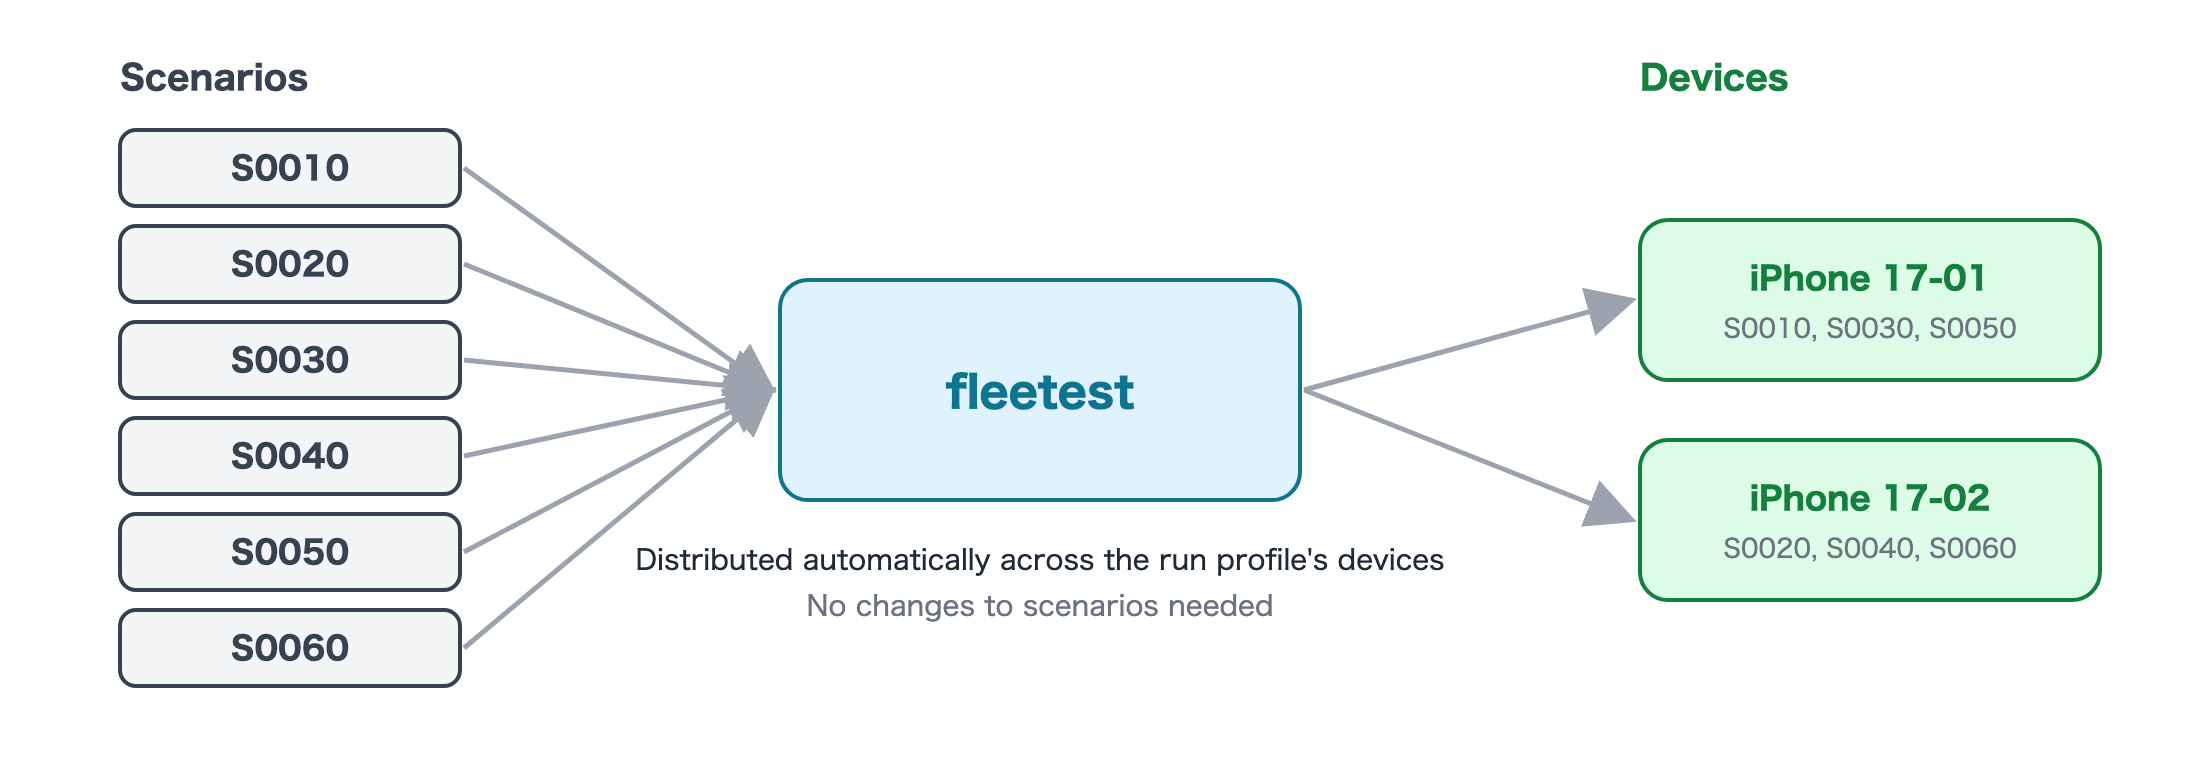
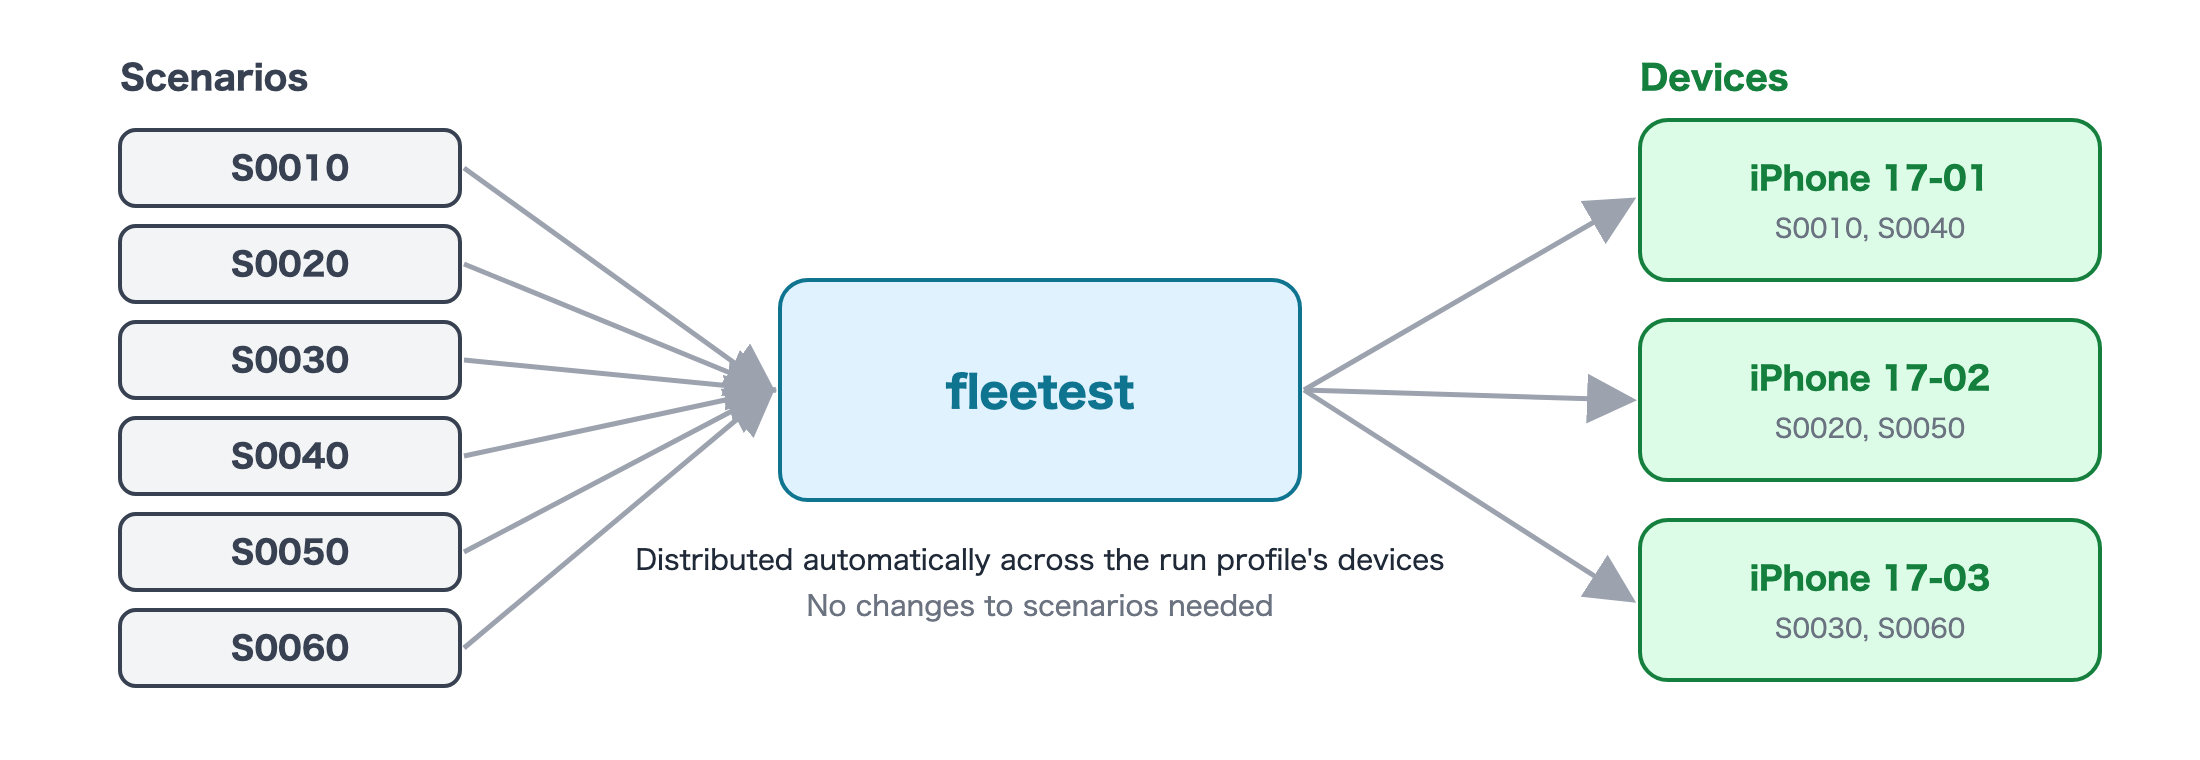
docs(user-docs): クイックスタートとチュートリアルを通しで実施して見つかった食い違いを直す
新しい作業フォルダで受け手と同じ経路を通し、各指示文を新しいセッションへ渡して確かめた。

- テストに名前とファイル名を付けて指示文で名指しする(商品詳細を開く.swift・カートに追加する.swift)。
  「基本ルートのテスト」が2本あると「既存のテストに足す」が別ファイルを作ったり既存に足したりで割れ、
  スモークの段で AI が「カートのテスト」の候補2本を聞き返して止まった。2本目は同じファイルに足すと明示し、
  スモークの期待は「2つのファイル・3本」と分けて書く
- チュートリアルの台数を3台に揃える(クイックスタートの2台 + デバイスを用意するの1台)。図も作り直す
- クイックスタート手順5の手動手順から project create を外す(手順4の prepare.sh が作成済みで exit 1 になる)
- 指示文に「fleetest のテストプロジェクト project1」を付け、手順7を会話に依存しない文にする
- ft_services / ft_start_run の許可を求められることを書く・doctor の指示文を枠に入れる
- 手動ビルドを generic/platform=iOS Simulator にし、JDK 25 以降が要ることを書く
- /health の応答を実物({"status":"ok","db":"up"})に合わせ、VSCode で見るの「次へ」をサンドボックスへつなぐ

直した指示文で「テストを作る → 失敗させる → スモーク」を2周通し、2周とも docs の期待どおりだった。

Changed region(s): [[0.5873, 0.3632, 0.9582, 0.9079], [0.7109, 0.1513, 0.9582, 0.4539], [0.68, 0.3329, 0.7109, 0.3632]]

diff --git a/docs/user-docs/images/tutorial/gen_diagrams.py b/docs/user-docs/images/tutorial/gen_diagrams.py
@@ -102,10 +102,10 @@ def parallel(t):
     b+=f'<text x="520" y="285" text-anchor="middle" font-size="14" fill="{C["ink"]}">{t["par_q"]}</text>'
     b+=f'<text x="520" y="308" text-anchor="middle" font-size="14" fill="{C["sub"]}">{t["par_note"]}</text>'
     for i in range(6): b+=arrow(232,84+i*48,386,195)
-    # チュートリアルの「デバイスを用意する」で ios-run を2台にする流れに合わせる
-    devs=[("iPhone 17-01",["S0010","S0030","S0050"]),("iPhone 17-02",["S0020","S0040","S0060"])]
+    # クイックスタートの2台 +「デバイスを用意する」の1台 = ios-run の3台に合わせる
+    devs=[("iPhone 17-01",["S0010","S0040"]),("iPhone 17-02",["S0020","S0050"]),("iPhone 17-03",["S0030","S0060"])]
     for i,(d,ss) in enumerate(devs):
-        y=110+i*110
+        y=60+i*100
         b+=box(820,y,230,80,C["devBg"],C["dev"],d,", ".join(ss),ts=16)
         b+=arrow(652,195,816,y+40)
     return svg(W,H,b)

diff --git a/docs/user-docs/quick-start.md b/docs/user-docs/quick-start.md
@@ -46,7 +46,11 @@ following ../foundation-tester/.claude/skills/fleetest-setup/SKILL.md.
 
    <img src="images/quick_start/en/device_monitor.png" width="640" alt="The device monitor just opened">
 
-7. Ask your AI assistant to "run `../foundation-tester/.build/debug/fleetest doctor` and report the result", and confirm that no errors are reported
+7. Give your AI assistant this instruction and confirm that no errors are reported
+
+```text
+Run ../foundation-tester/.build/debug/fleetest doctor and report the result.
+```
 
 ## 4. Preparing the sample app
 
@@ -83,26 +87,26 @@ Create the app profile and the run profile.
 For iOS:
 
 ```text
-Build the sut-ec-mobile iOS app and create its profiles. The app's display name is "SUT Store". Use two devices.
+In the fleetest test project project1, build the sut-ec-mobile iOS app and create its profiles. The app's display name is "SUT Store". Use two devices.
 The build needs JDK 25; if it is missing, you can install JDK 25 with Homebrew. Don't modify any shell configuration files.
 ```
 
 For Android:
 
 ```text
-Build the sut-ec-mobile Android app and create its profiles. The app's display name is "SUT Store". Use two devices.
+In the fleetest test project project1, build the sut-ec-mobile Android app and create its profiles. The app's display name is "SUT Store". Use two devices.
 The build needs JDK 25; if it is missing, you can install JDK 25 with Homebrew. Don't modify any shell configuration files.
 ```
 
 <details>
 <summary><b>If you do it manually (click to show details)</b></summary>
 
-Build the app in the sut-ec-mobile folder:
+Build the app in the sut-ec-mobile folder. The build needs JDK 25 or later (if it is missing, `brew install openjdk@25`).
 
 ```bash
-# iOS Simulator (set the name in -destination to a Simulator you have)
+# iOS Simulator
 xcodebuild -project iosApp/iosApp.xcodeproj -scheme iosApp -configuration Debug \
-  -sdk iphonesimulator -destination 'platform=iOS Simulator,name=iPhone 17 Pro' \
+  -sdk iphonesimulator -destination 'generic/platform=iOS Simulator' \
   -derivedDataPath build/ios-sim CODE_SIGNING_ALLOWED=NO ARCHS=arm64 ONLY_ACTIVE_ARCH=YES build
 #   -> build/ios-sim/Build/Products/Debug-iphonesimulator/iosApp.app
 
@@ -111,12 +115,9 @@ xcodebuild -project iosApp/iosApp.xcodeproj -scheme iosApp -configuration Debug 
 #   -> androidApp/build/outputs/apk/debug/androidApp-debug.apk
 ```
 
-Go back to your work folder and run the following. The installation creates no test project, so create one first
-(when you ask the AI assistant, it is created automatically; the VSCode extension also creates it on startup after VSCode restarts).
+Go back to your work folder and run the following. The profiles are created in the test project project1 that step 4 created.
 
 ```bash
-../foundation-tester/.build/debug/fleetest project create project1
-
 # iOS
 ../foundation-tester/.build/debug/fleetest profile setup --platform ios --app-id com.sutec.mobile.ios --auto-device --count 2 --app-name "SUT Store" \
   --app-path ../sut-ec-mobile/build/ios-sim/Build/Products/Debug-iphonesimulator/iosApp.app
@@ -150,7 +151,9 @@ Let's create a happy-path test (the normal flow) up to opening a product.
 ### Prompt for the AI
 
 ```text
-In sut-ec-mobile (SUT Store), create one happy-path test (the normal flow) on iOS that opens a product from the home screen and shows its product details. Put the step that switches the app to English mode in setUpDevice. Stop once you've told me the file name of the new scenario.
+In the fleetest test project project1, create one "open-product-details test" for SUT Store on iOS. Name the file OpenProductDetails.swift.
+It checks the happy path (the normal flow) of opening a product from the home screen until its product details are shown. Put the step that switches the app to English mode in setUpDevice.
+Stop once you've told me the file name of the new scenario.
 ```
 
 `setUpDevice` is where you put the preparation that is done once per device before the tests (here, switching the language).
@@ -159,6 +162,7 @@ For Android, read "on iOS" as "on Android".
 The AI assistant launches the app on a device, reads the elements of the screens while
 operating them, and turns that flow into a scenario.
 Before it starts operating the app, the AI assistant starts the server declared in compose.yaml with `ft_services`.
+The AI assistant asks for permission to use `ft_services` at this point; allow it.
 
 <details>
 <summary><b>If you do it manually (click to show details)</b></summary>
@@ -180,10 +184,11 @@ On every run fleetest starts the server and stops it when the run ends. Services
 ### Prompt for the AI
 
 ```text
-Run the scenarios you created on iOS.
+Run the scenarios of the fleetest test project project1 on iOS (ios-run).
 ```
 
-For scenarios created on Android, ask "Run them on Android" instead.
+For scenarios created on Android, ask "on Android (android-run)" instead.
+When asked for permission to use `ft_start_run`, which starts the run, allow it as well.
 
 <img src="images/quick_start/en/run_in_progress.png" width="640" alt="The device monitor while the run is in progress">
 
@@ -216,7 +221,7 @@ Let's summarize the reports and analyze the errors.
 ### Prompt for the AI
 
 ```text
-Summarize the results of that run. If anything failed, use the report to find out why.
+Summarize the latest run of the fleetest test project project1. If anything failed, use the report to find out why.
 ```
 
 <details>

diff --git a/docs/user-docs/tutorial/investigating_failures.md b/docs/user-docs/tutorial/investigating_failures.md
@@ -7,18 +7,18 @@ What fleetest records is only the facts: at which stage, which operation, and ho
 
 ## 1. Make one fail on purpose
 
-To practice investigating, temporarily change an expected value in the cart test so that it fails.
+To practice investigating, temporarily change an expected value in the add-to-cart test so that it fails.
 
 ### Prompt for the AI
 
 ```text
-In the cart test of the fleetest test project project1, temporarily change just one expected value, the one that checks the product name in the cart, to a product name that does not exist.
+In the first test of the "add-to-cart test" (AddToCart.swift) of the fleetest test project project1, temporarily change just one expected value, the one that checks the product name in the cart, to a product name that does not exist.
 Then run it on iOS (ios-run) and report only pass or fail. Don't fix it.
 ```
 
 Expected result:
 
-- The cart test fails.
+- The first test of the add-to-cart test fails.
 - The other tests pass.
 
 ## 2. Have the results summarized
@@ -41,7 +41,7 @@ Summarize the latest run of the fleetest test project project1. If anything fail
 
 Expected result:
 
-- The cart test is listed.
+- The first test of the add-to-cart test is listed.
 - The step where you changed the expected value is listed.
 
 ## 3. Have the cause investigated (don't fix it)
@@ -69,7 +69,7 @@ Expected result:
 ### Prompt for the AI
 
 ```text
-In the cart test of the fleetest test project project1, restore the expected value to the original product name, and re-run only the scenarios that failed on iOS last time.
+In the "add-to-cart test" (AddToCart.swift) of the fleetest test project project1, restore the expected value to the original product name, and re-run only the scenarios that failed on iOS last time.
 ```
 
 <details>
@@ -86,7 +86,7 @@ Results are recorded per profile, so run it with the same profile as last time.
 
 Expected result:
 
-- Only the cart test that had failed runs, and it passes.
+- Only the one test that had failed runs, and it passes.
 
 More details:
 

diff --git a/docs/user-docs/tutorial/creating_tests_ja.md b/docs/user-docs/tutorial/creating_tests_ja.md
@@ -11,8 +11,8 @@
 ### AIへの指示文
 
 ```text
-fleetest のテストプロジェクト project1 で、SUT Store の基本ルート(正常に進む流れ)のテストを1本作成して。
-検索画面で商品を探して(カテゴリで絞り込んでよい)、商品を開いてカートに追加し、カートにその商品が入っていることを確かめる。ログインは不要。
+fleetest のテストプロジェクト project1 で、SUT Store の「カートに追加するテスト」を1本作成して。ファイル名は カートに追加する.swift にして。
+基本ルート(正常に進む流れ)のテストで、検索画面で商品を探して(カテゴリで絞り込んでよい)、商品を開いてカートに追加し、カートにその商品が入っていることを確かめる。ログインは不要。
 作ったら、iOS(ios-run)で実行して確かめて。
 ```
 
@@ -25,7 +25,8 @@ AIアシスタントは、コンパイルとデバイス無しの検証(dry-run)
 ### AIへの指示文
 
 ```text
-fleetest のテストプロジェクト project1 の SUT Store の基本ルートのテストに、ログインなしで、商品詳細で数量を3にしてカートに追加するケースを追加して。
+fleetest のテストプロジェクト project1 の「カートに追加するテスト」(カートに追加する.swift)に、2本目のテストとして、
+ログインなしで、商品詳細で数量を3にしてカートに追加するケースを追加して。新しいファイルは作らないで。
 カートでその商品の数量が3になっていることを確かめる。作ったら、iOS(ios-run)で実行して確かめて。
 ```
 

diff --git a/docs/user-docs/tutorial/smoke_and_regression.md b/docs/user-docs/tutorial/smoke_and_regression.md
@@ -3,14 +3,14 @@
 [in Japanese(日本語)](smoke_and_regression_ja.md)
 
 Split your scenarios into a short set you run every time (smoke) and a set that runs everything (regression). No scenario needs to change.
-Here, smoke is the product-details test (made in the Quick Start) plus the cart test, and regression is everything.
+Here, smoke is the open-product-details test (made in the Quick Start) plus the add-to-cart test, and regression is everything.
 
 ## 1. Sort them into folders
 
 ### Prompt for the AI
 
 ```text
-In the fleetest test project project1, create a smoke folder under scenarios/ and move the scenario that opens product details and the cart test scenario into it.
+In the fleetest test project project1, create a smoke folder under scenarios/ and move OpenProductDetails.swift and AddToCart.swift into it.
 After moving, confirm that it still compiles.
 ```
 
@@ -19,7 +19,7 @@ After moving, confirm that it still compiles.
 
 ```bash
 mkdir TestProjects/project1/scenarios/smoke
-mv TestProjects/project1/scenarios/<FileName>.swift TestProjects/project1/scenarios/smoke/
+mv TestProjects/project1/scenarios/OpenProductDetails.swift TestProjects/project1/scenarios/AddToCart.swift TestProjects/project1/scenarios/smoke/
 ```
 
 A scenario ID (`ClassName.methodName`) does not change with the folder.
@@ -54,7 +54,7 @@ Without a folder, everything runs.
 
 Expected result:
 
-- Only the two scenarios inside `smoke` run.
+- Only the three scenarios inside `smoke` run (one in the open-product-details test and two in the add-to-cart test).
 
 Next, run everything without naming a folder (regression) and compare how many ran.
 

diff --git a/docs/user-docs/tutorial/creating_tests.md b/docs/user-docs/tutorial/creating_tests.md
@@ -11,8 +11,8 @@ This suits your first test. It creates one test for the normal flow only (add er
 ### Prompt for the AI
 
 ```text
-In the fleetest test project project1, create one happy-path test (the normal flow) for SUT Store.
-Search for a product on the search screen (narrowing by category is fine), open it, add it to the cart, and check that the product is in the cart. No login is needed.
+In the fleetest test project project1, create one "add-to-cart test" for SUT Store. Name the file AddToCart.swift.
+It is a happy-path test (the normal flow): search for a product on the search screen (narrowing by category is fine), open it, add it to the cart, and check that the product is in the cart. No login is needed.
 When it is ready, run it on iOS (ios-run) to confirm.
 ```
 
@@ -25,7 +25,8 @@ The AI assistant compiles it, verifies it without a device (dry-run), runs it on
 ### Prompt for the AI
 
 ```text
-In the fleetest test project project1, add a case to the SUT Store happy-path test: without logging in, set the quantity to 3 in the product details and add it to the cart.
+In the fleetest test project project1, add a second test to the "add-to-cart test" (AddToCart.swift):
+without logging in, set the quantity to 3 in the product details and add it to the cart. Don't create a new file.
 Check that the quantity of that product in the cart is 3. When it is ready, run it on iOS (ios-run) to confirm.
 ```
 

diff --git a/docs/user-docs/tutorial/running_tests.md b/docs/user-docs/tutorial/running_tests.md
@@ -31,7 +31,7 @@ Expected result:
 
 - With no warnings, you are told there are no problems.
 
-## 2. Run (in parallel on two devices)
+## 2. Run (in parallel on three devices)
 
 ### Prompt for the AI
 
@@ -61,11 +61,11 @@ In VSCode, select a scenario in the Test Explorer and click "Run" (choose the ru
 
 Expected result:
 
-- `ios-run` has the two devices you set up in [Preparing devices](preparing_app_and_devices.md), so the scenarios are distributed to both automatically.
-- The two devices in the Device Monitor run different scenarios at the same time.
+- `ios-run` has the three devices you set up in the Quick Start and [Preparing devices](preparing_app_and_devices.md), so the scenarios are distributed to all three automatically.
+- The three devices in the Device Monitor run different scenarios at the same time.
 - A list of pass/fail appears when it finishes (no change to the scenarios is needed).
 
-<img src="../images/tutorial/en/parallel_run.png" width="640" alt="fleetest distributes six scenarios across two devices automatically">
+<img src="../images/tutorial/en/parallel_run.png" width="640" alt="fleetest distributes six scenarios across three devices automatically">
 
 More details:
 

diff --git a/docs/user-docs/tutorial/preparing_app_and_devices_ja.md b/docs/user-docs/tutorial/preparing_app_and_devices_ja.md
@@ -26,7 +26,7 @@ fleetest のテストプロジェクト project1 の実行プロファイル ios
 
 期待する結果:
 
-- AIアシスタントが `ios-run` のデバイス一覧(1台増えたもの)を報告します。
+- AIアシスタントが `ios-run` のデバイス一覧を報告します(クイックスタートの2台 + 追加した1台 = 3台)。
 - デバイスモニターの「プロファイル」タブにも並びます。
 
 設定できる項目:
